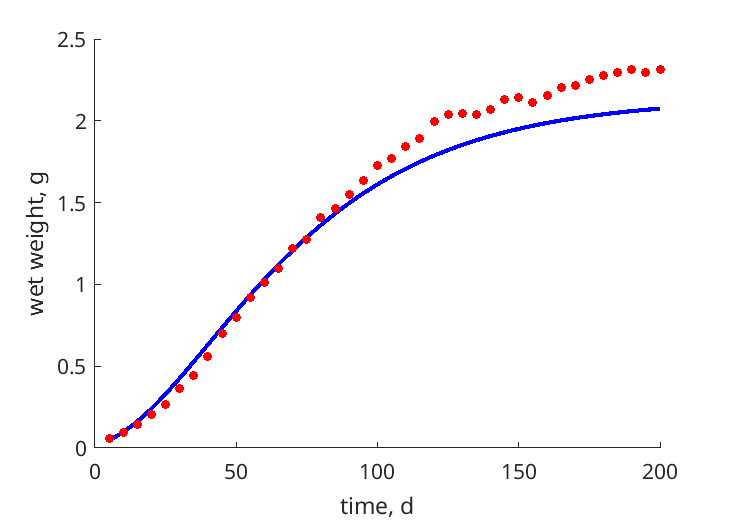
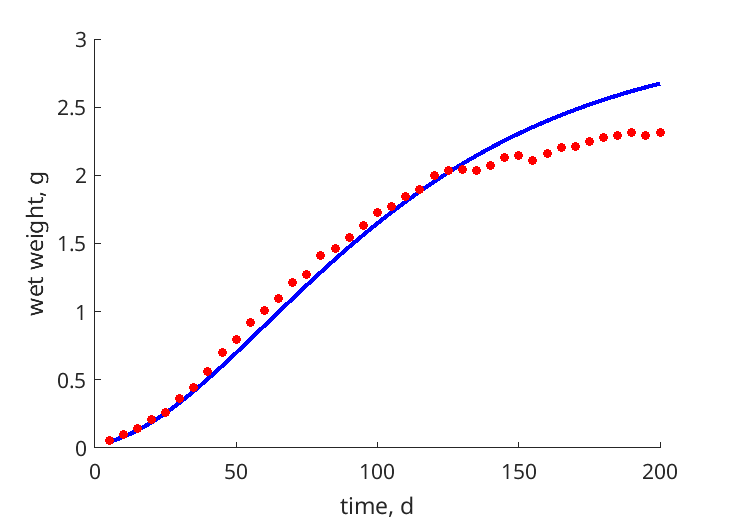
first successful model

diff --git a/deb_matlab/Dendrobena_veneta_res.html b/deb_matlab/Dendrobena_veneta_res.html
@@ -44,7 +44,7 @@
   </div>
 
   <div class="par">
-  <h4>COMPLETE = 2.5; MRE =    0.747; SMAE =    0.650; SMSE =    0.569 </h4>
+  <h4>COMPLETE = 2.5; MRE =    0.260; SMAE =    0.293; SMSE =    0.146 </h4>
   </div>
 
   <p class="clear"></p>
@@ -53,25 +53,25 @@
   <h2>Data & predictions</h2>
   <TABLE id="prd">
     <TR  class="head"><TH>data</TH> <TH>prd</TH> <TH>RE</TH>  <TH>symbol</TH> <TH>units</TH> <TH>description</TH> </TR>
-    <TR><TD>42.1</TD> <TD>9.181</TD> <TD>0.7819</TD> <TD>ab_25</TD> <TD>d</TD> <TD>age at birth</TD></TR>
-    <TR><TD> 21</TD> <TD>14.51</TD> <TD>0.3091</TD> <TD>ab_20</TD> <TD>d</TD> <TD>age at birth</TD></TR>
-    <TR><TD>0.01</TD> <TD>0.01666</TD> <TD>0.6658</TD> <TD>Wwb_20</TD> <TD>g</TD> <TD>wet weight at birth</TD></TR>
-    <TR><TD>0.024</TD> <TD>0.01666</TD> <TD>0.3059</TD> <TD>Wwb_25</TD> <TD>g</TD> <TD>wet weight at birth</TD></TR>
-    <TR><TD>1.095</TD> <TD>0.6105</TD> <TD>0.4424</TD> <TD>Wwp</TD> <TD>g</TD> <TD>wet weight at puberty</TD></TR>
-    <TR><TD> 65</TD> <TD>39.05</TD> <TD>0.3992</TD> <TD>tp</TD> <TD>d</TD> <TD>time since birth at puberty</TD></TR>
-    <TR><TD> 11</TD> <TD>6.776</TD> <TD>0.384</TD> <TD>Li</TD> <TD>cm</TD> <TD>ultimate body length</TD></TR>
-    <TR><TD>2555</TD> <TD>2930</TD> <TD>0.1469</TD> <TD>am</TD> <TD>d</TD> <TD>life span</TD></TR>
-    <TR><TD>2.312</TD> <TD>2.139</TD> <TD>0.07467</TD> <TD>Wwi</TD> <TD>g</TD> <TD>ultimate wet weight</TD></TR>
-    <TR><TD>0.308</TD> <TD>1.438</TD> <TD>3.667</TD> <TD>Ri_25</TD> <TD>cocoons/worm/d</TD> <TD>maximum reproduction rate</TD></TR>
-    <TR><TD>0.37</TD> <TD>0.9096</TD> <TD>1.458</TD> <TD>Ri_20</TD> <TD>cocoons/worm/d</TD> <TD>maximum reproduction rate</TD></TR>
-    <TR><TD colspan="2">see figure</TD> <TD>0.07893</TD> <TD>tW_Vilj</TD> <TD colspan="2">time <font color="blue"><i>vs.</i></font> wet weight</TD>
-    <TR><TD colspan="2">see figure</TD> <TD>0.9903</TD> <TD>tW_Kova</TD> <TD colspan="2">time <font color="blue"><i>vs.</i></font> wet weight</TD>
-    <TR class="psd"><TD>0.02</TD> <TD>0.01477</TD> <TD>0.2615</TD> <TD>psd.v</TD> <TD>cm/d</TD> <TD>energy conductance</TD></TR>
-    <TR class="psd"><TD> 18</TD> <TD>4741</TD> <TD>262.4</TD> <TD>psd.p_M</TD> <TD>J/d.cm^3</TD> <TD>vol-spec som maint</TD></TR>
+    <TR><TD>42.1</TD> <TD>12.61</TD> <TD>0.7006</TD> <TD>ab_25</TD> <TD>d</TD> <TD>age at birth</TD></TR>
+    <TR><TD> 21</TD> <TD>19.92</TD> <TD>0.05133</TD> <TD>ab_20</TD> <TD>d</TD> <TD>age at birth</TD></TR>
+    <TR><TD>0.01</TD> <TD>0.01814</TD> <TD>0.8137</TD> <TD>Wwb_20</TD> <TD>g</TD> <TD>wet weight at birth</TD></TR>
+    <TR><TD>0.024</TD> <TD>0.01814</TD> <TD>0.2443</TD> <TD>Wwb_25</TD> <TD>g</TD> <TD>wet weight at birth</TD></TR>
+    <TR><TD>1.095</TD> <TD>0.9733</TD> <TD>0.1111</TD> <TD>Wwp</TD> <TD>g</TD> <TD>wet weight at puberty</TD></TR>
+    <TR><TD> 65</TD> <TD>71.8</TD> <TD>0.1047</TD> <TD>tp</TD> <TD>d</TD> <TD>time since birth at puberty</TD></TR>
+    <TR><TD> 11</TD> <TD>10.98</TD> <TD>0.001374</TD> <TD>Li</TD> <TD>cm</TD> <TD>ultimate body length</TD></TR>
+    <TR><TD>2555</TD> <TD>2764</TD> <TD>0.08177</TD> <TD>am</TD> <TD>d</TD> <TD>life span</TD></TR>
+    <TR><TD>2.312</TD> <TD>2.402</TD> <TD>0.03906</TD> <TD>Wwi</TD> <TD>g</TD> <TD>ultimate wet weight</TD></TR>
+    <TR><TD>0.308</TD> <TD>0.4374</TD> <TD>0.42</TD> <TD>Ri_25</TD> <TD>cocoons/worm/d</TD> <TD>maximum reproduction rate</TD></TR>
+    <TR><TD>0.37</TD> <TD>0.2484</TD> <TD>0.3287</TD> <TD>Ri_20</TD> <TD>cocoons/worm/d</TD> <TD>maximum reproduction rate</TD></TR>
+    <TR><TD colspan="2">see figure</TD> <TD>0.08266</TD> <TD>tW_Vilj</TD> <TD colspan="2">time <font color="blue"><i>vs.</i></font> wet weight</TD>
+    <TR><TD colspan="2">see figure</TD> <TD>0.3991</TD> <TD>tW_Kova</TD> <TD colspan="2">time <font color="blue"><i>vs.</i></font> wet weight</TD>
+    <TR class="psd"><TD>0.02</TD> <TD>0.0126</TD> <TD>0.3701</TD> <TD>psd.v</TD> <TD>cm/d</TD> <TD>energy conductance</TD></TR>
+    <TR class="psd"><TD> 18</TD> <TD>3243</TD> <TD>179.2</TD> <TD>psd.p_M</TD> <TD>J/d.cm^3</TD> <TD>vol-spec som maint</TD></TR>
     <TR class="psd"><TD>0.002</TD> <TD>0.002</TD> <TD>  0</TD> <TD>psd.k_J</TD> <TD>1/d</TD> <TD>maturity maint rate coefficient</TD></TR>
-    <TR class="psd"><TD>0.3</TD> <TD>0.001764</TD> <TD>0.9941</TD> <TD>psd.k</TD> <TD>-</TD> <TD>maintenance ratio</TD></TR>
-    <TR class="psd"><TD>0.8</TD> <TD>0.5756</TD> <TD>0.2805</TD> <TD>psd.kap</TD> <TD>-</TD> <TD>allocation fraction to soma</TD></TR>
-    <TR class="psd"><TD>0.8</TD> <TD>0.8004</TD> <TD>0.0005576</TD> <TD>psd.kap_G</TD> <TD>-</TD> <TD>growth efficiency</TD></TR>
+    <TR class="psd"><TD>0.3</TD> <TD>0.002579</TD> <TD>0.9914</TD> <TD>psd.k</TD> <TD>-</TD> <TD>maintenance ratio</TD></TR>
+    <TR class="psd"><TD>0.8</TD> <TD>0.813</TD> <TD>0.0162</TD> <TD>psd.kap</TD> <TD>-</TD> <TD>allocation fraction to soma</TD></TR>
+    <TR class="psd"><TD>0.8</TD> <TD>0.8006</TD> <TD>0.0007271</TD> <TD>psd.kap_G</TD> <TD>-</TD> <TD>growth efficiency</TD></TR>
     <TR class="psd"><TD>0.95</TD> <TD>0.475</TD> <TD>0.5</TD> <TD>psd.kap_R</TD> <TD>-</TD> <TD>reproduction efficiency</TD></TR>
   </TABLE>
   </div>
@@ -81,26 +81,26 @@
   <TABLE id="par">
     <TR class="head"><TH>symbol</TH> <TH>units</TH> <TH>value</TH>  <TH>free</TH> <TH>description</TH> </TR>
     <TR><TD>T_ref</TD> <TD>K</TD> <TD>293.1</TD> <TD>0</TD> <TD>Reference temperature</TD></TR>
-    <TR><TD>z</TD> <TD>-</TD> <TD>0.3431</TD> <TD>1</TD> <TD>zoom factor</TD></TR>
+    <TR><TD>z</TD> <TD>-</TD> <TD>0.4059</TD> <TD>1</TD> <TD>zoom factor</TD></TR>
     <TR><TD>F_m</TD> <TD>l/d.cm^2</TD> <TD>6.5</TD> <TD>0</TD> <TD>{F_m}, max spec searching rate</TD></TR>
     <TR><TD>kap_X</TD> <TD>-</TD> <TD>0.8</TD> <TD>0</TD> <TD>digestion efficiency of food to reserve</TD></TR>
     <TR><TD>kap_P</TD> <TD>-</TD> <TD>0.1</TD> <TD>0</TD> <TD>faecation efficiency of food to faeces</TD></TR>
-    <TR><TD>v</TD> <TD>cm/d</TD> <TD>0.01477</TD> <TD>1</TD> <TD>energy conductance</TD></TR>
-    <TR><TD>kap</TD> <TD>-</TD> <TD>0.5756</TD> <TD>1</TD> <TD>allocation fraction to soma</TD></TR>
+    <TR><TD>v</TD> <TD>cm/d</TD> <TD>0.0126</TD> <TD>1</TD> <TD>energy conductance</TD></TR>
+    <TR><TD>kap</TD> <TD>-</TD> <TD>0.813</TD> <TD>1</TD> <TD>allocation fraction to soma</TD></TR>
     <TR><TD>kap_R</TD> <TD>-</TD> <TD>0.475</TD> <TD>0</TD> <TD>reproduction efficiency</TD></TR>
-    <TR><TD>p_M</TD> <TD>J/d.cm^3</TD> <TD>4741</TD> <TD>1</TD> <TD>[p_M], vol-spec somatic maint</TD></TR>
+    <TR><TD>p_M</TD> <TD>J/d.cm^3</TD> <TD>3243</TD> <TD>1</TD> <TD>[p_M], vol-spec somatic maint</TD></TR>
     <TR><TD>p_T</TD> <TD>J/d.cm^2</TD> <TD>  0</TD> <TD>0</TD> <TD>{p_T}, surf-spec somatic maint</TD></TR>
     <TR><TD>k_J</TD> <TD>1/d</TD> <TD>0.002</TD> <TD>0</TD> <TD>maturity maint rate coefficient</TD></TR>
-    <TR><TD>E_G</TD> <TD>J/cm^3</TD> <TD>4182</TD> <TD>1</TD> <TD>[E_G], spec cost for structure</TD></TR>
-    <TR><TD>E_Hb</TD> <TD>J</TD> <TD>5.229</TD> <TD>1</TD> <TD>maturity at birth</TD></TR>
-    <TR><TD>E_Hp</TD> <TD>J</TD> <TD>1055</TD> <TD>1</TD> <TD>maturity at puberty</TD></TR>
-    <TR><TD>h_a</TD> <TD>1/d^2</TD> <TD>1.629e-08</TD> <TD>1</TD> <TD>Weibull aging acceleration</TD></TR>
+    <TR><TD>E_G</TD> <TD>J/cm^3</TD> <TD>4181</TD> <TD>1</TD> <TD>[E_G], spec cost for structure</TD></TR>
+    <TR><TD>E_Hb</TD> <TD>J</TD> <TD>2.482</TD> <TD>1</TD> <TD>maturity at birth</TD></TR>
+    <TR><TD>E_Hp</TD> <TD>J</TD> <TD>953.3</TD> <TD>1</TD> <TD>maturity at puberty</TD></TR>
+    <TR><TD>h_a</TD> <TD>1/d^2</TD> <TD>2.695e-08</TD> <TD>1</TD> <TD>Weibull aging acceleration</TD></TR>
     <TR><TD>s_G</TD> <TD>-</TD> <TD>0.0001</TD> <TD>0</TD> <TD>Gompertz stress coefficient</TD></TR>
     <TR><TD>T_A</TD> <TD>K</TD> <TD>8000</TD> <TD>0</TD> <TD>Arrhenius temperature</TD></TR>
-    <TR><TD>del_M</TD> <TD>-</TD> <TD>0.05063</TD> <TD>1</TD> <TD>shape coefficient</TD></TR>
+    <TR><TD>del_M</TD> <TD>-</TD> <TD>0.03695</TD> <TD>1</TD> <TD>shape coefficient</TD></TR>
     <TR><TD>f</TD> <TD>-</TD> <TD>  1</TD> <TD>0</TD> <TD>scaled functional response for 0-var data</TD></TR>
-    <TR><TD>f_Kova</TD> <TD>-</TD> <TD>  1</TD> <TD>1</TD> <TD>f for Kovacevic et al. 2023</TD></TR>
-    <TR><TD>f_Vilj</TD> <TD>-</TD> <TD>  1</TD> <TD>1</TD> <TD>f for Viljoen et al. 1991</TD></TR>
+    <TR><TD>f_Kova</TD> <TD>-</TD> <TD>1.202</TD> <TD>1</TD> <TD>f for Kovacevic et al. 2023</TD></TR>
+    <TR><TD>f_Vilj</TD> <TD>-</TD> <TD>1.061</TD> <TD>1</TD> <TD>f for Viljoen et al. 1991</TD></TR>
   </TABLE>
   </div>
 

diff --git a/deb_matlab/run_Dendrobena_veneta.m b/deb_matlab/run_Dendrobena_veneta.m
@@ -10,6 +10,6 @@ estim_options('max_fun_evals', 5e3);
 
 estim_options('pars_init_method', 2); 
 estim_options('results_output', 3); 
-estim_options('method', 'no'); 
+estim_options('method', 'nm'); 
 
 estim_pars; 
